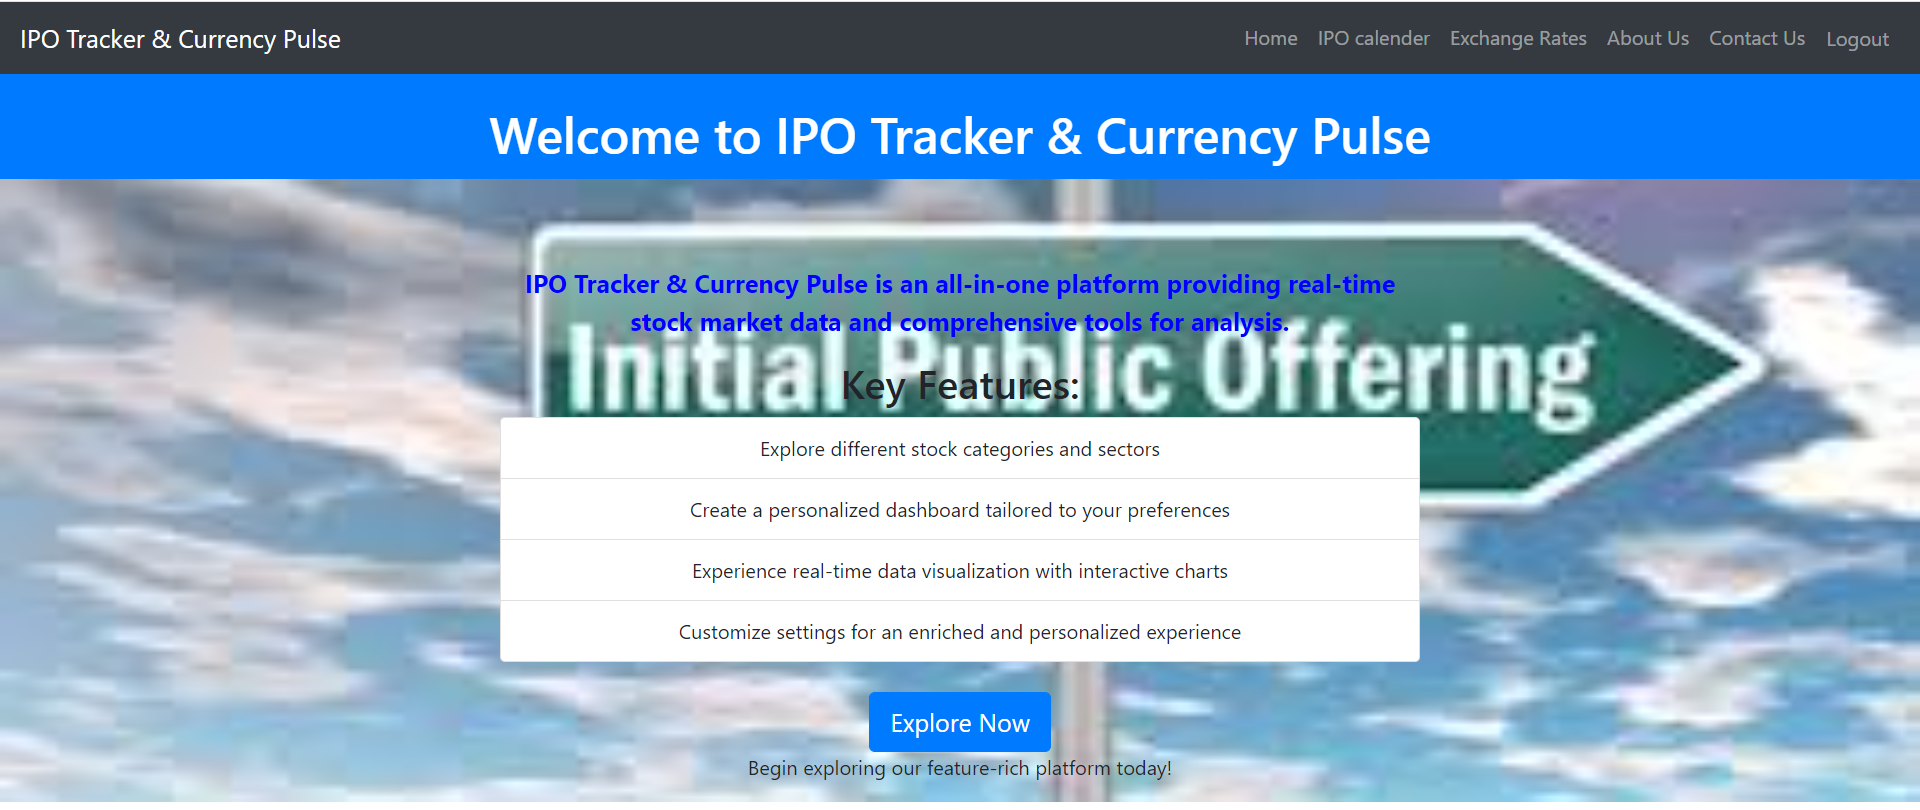
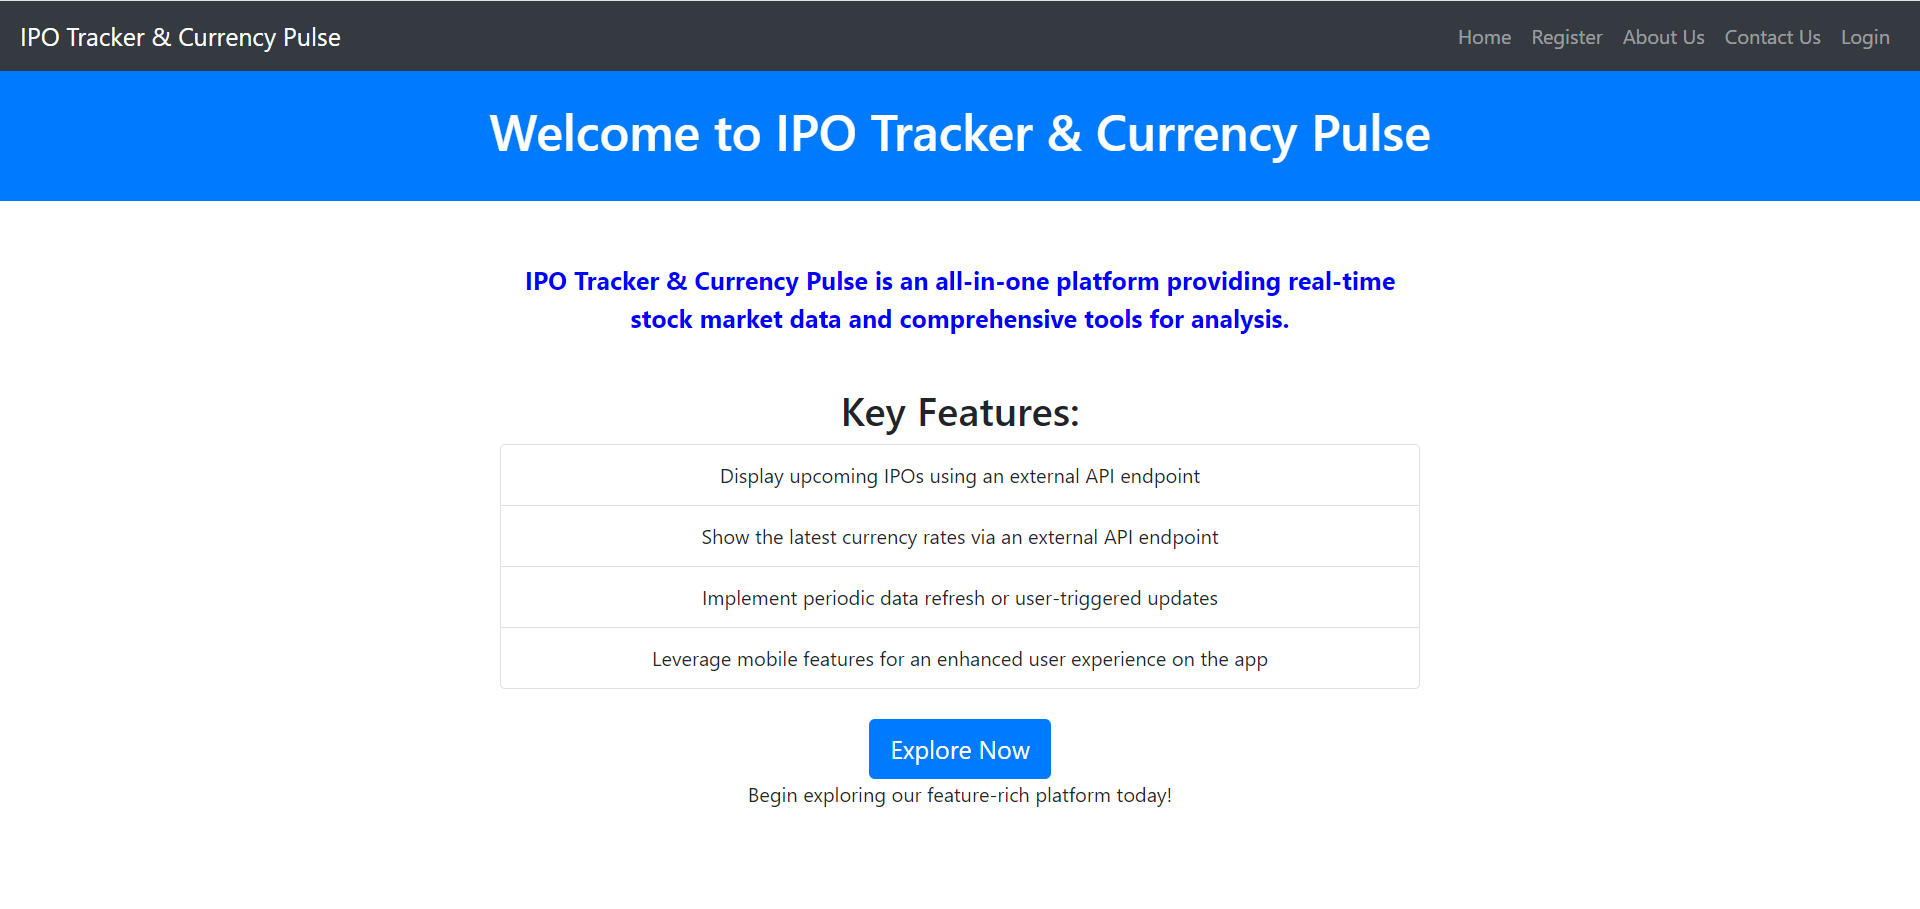
Updated Api

diff --git a/allComponents/Home.js b/allComponents/Home.js
@@ -6,10 +6,10 @@ const Home = ({ theme, navigation }) => {
   const { isAuthenticated, logout } = useAuth();
 
   const keyFeatures = [
-    'Explore different stock categories and sectors',
-    'Create a personalized dashboard tailored to your preferences',
-    'Experience real-time data visualization with interactive charts',
-    'Customizable settings for a tailored experience',
+    'Display upcoming IPOs using an external API endpoint',
+    'Show the latest currency rates via an external API endpoint',
+    'Implement periodic data refresh or user-triggered updates',
+    'Leverage mobile features for an enhanced user experience on the app',
   ];
 
   const styles = {

diff --git a/allComponents/IPOCalendar.js b/allComponents/IPOCalendar.js
@@ -12,7 +12,12 @@ const IPOCalendar = () => {
     const fetchIPOData = async () => {
       try {
         const response = await axios.get(apiUrl);
-        setIPOData(response.data);
+       //Since price is null in api , setting a random price
+       const modifiedData = response.data.map((ipo) => ({
+        ...ipo,
+        price: Math.floor(Math.random() * 1000) + 1000, 
+      }));
+      setIPOData(modifiedData);
       } catch (error) {
         console.error('Error fetching IPO data:', error);
       }
